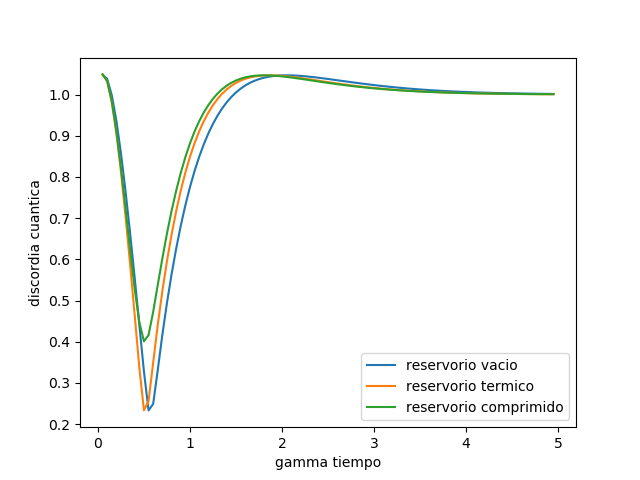
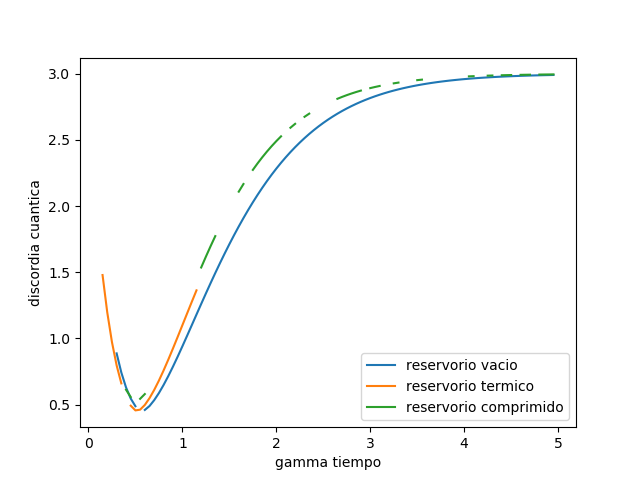
ÂÂ¿Graficos correctos?

diff --git a/master.py b/master.py
@@ -64,7 +64,7 @@ for i in range (0,100):
     c=np.amax(consar)
     carray=np.array([0,0.5*(c1+c2-1-c3),0.5*(c1-c2-1+c3)])
     conc_I1_S0S[i]=np.amax(carray)
-    disc_I1_S0S[i]=mat.eigenvalues[1]*np.log2(4*mat.eigenvalues[1])-0.5*(-(1+c)*np.log2(np.absolute(1+c))-(1-c)*np.log2(np.absolute(1-c)))
+    disc_I1_S0S[i]=mat.eigenenergies()[0]*np.log2(4*mat.eigenenergies()[0])+mat.eigenenergies()[1]*np.log2(4*mat.eigenenergies()[1])+mat.eigenenergies()[2]*np.log2(4*mat.eigenenergies()[2])+mat.eigenenergies()[3]*np.log2(4*mat.eigenenergies()[3])-0.5*(-(1+c)*np.log2(np.absolute(1+c))-(1-c)*np.log2(np.absolute(1-c)))
 
     
 for i in range (0,100):
@@ -77,7 +77,7 @@ for i in range (0,100):
     c=np.amax(consar)
     carray=np.array([0,0.5*(c1+c2-1-c3),0.5*(c1-c2-1+c3)])
     conc_I2_S0S[i]=np.amax(carray)
-    disc_I2_S0S[i]=-0.5*((1-c1-c2-c3)*np.log2(np.absolute(1-c1-c2-c3))+(1-c1+c2+c3)*np.log2(np.absolute(1-c1+c2+c3))-(1+c)*np.log2(np.absolute(1+c))-(1-c)*np.log2(np.absolute(1-c)))
+    disc_I2_S0S[i]=mat.eigenenergies()[0]*np.log2(4*mat.eigenenergies()[0])+mat.eigenenergies()[1]*np.log2(4*mat.eigenenergies()[1])+mat.eigenenergies()[2]*np.log2(4*mat.eigenenergies()[2])+mat.eigenenergies()[3]*np.log2(4*mat.eigenenergies()[3])-0.5*(-(1+c)*np.log2(np.absolute(1+c))-(1-c)*np.log2(np.absolute(1-c)))
 
 
 for i in range (0,100):
@@ -90,7 +90,7 @@ for i in range (0,100):
     c=np.amax(consar)
     carray=np.array([0,0.5*(c1+c2-1-c3),0.5*(c1-c2-1+c3)])
     conc_I3_S0S[i]=np.amax(carray)
-    disc_I3_S0S[i]=-0.5*((1-c1-c2-c3)*np.log2(np.absolute(1-c1-c2-c3))+(1-c1+c2+c3)*np.log2(np.absolute(1-c1+c2+c3))-(1+c)*np.log2(np.absolute(1+c))-(1-c)*np.log2(np.absolute(1-c)))
+    disc_I3_S0S[i]=mat.eigenenergies()[0]*np.log2(4*mat.eigenenergies()[0])+mat.eigenenergies()[1]*np.log2(4*mat.eigenenergies()[1])+mat.eigenenergies()[2]*np.log2(4*mat.eigenenergies()[2])+mat.eigenenergies()[3]*np.log2(4*mat.eigenenergies()[3])-0.5*(-(1+c)*np.log2(np.absolute(1+c))-(1-c)*np.log2(np.absolute(1-c)))
 
 
 for i in range (0,100):
@@ -103,7 +103,7 @@ for i in range (0,100):
     c=np.amax(consar)
     carray=np.array([0,0.5*(c1+c2-1-c3),0.5*(c1-c2-1+c3)])
     conc_I4_S0S[i]=np.amax(carray)
-    disc_I4_S0S[i]=-0.5*((1-c1-c2-c3)*np.log2(np.absolute(1-c1-c2-c3))+(1-c1+c2+c3)*np.log2(np.absolute(1-c1+c2+c3))-(1+c)*np.log2(np.absolute(1+c))-(1-c)*np.log2(np.absolute(1-c)))
+    disc_I4_S0S[i]=mat.eigenenergies()[0]*np.log2(4*mat.eigenenergies()[0])+mat.eigenenergies()[1]*np.log2(4*mat.eigenenergies()[1])+mat.eigenenergies()[2]*np.log2(4*mat.eigenenergies()[2])+mat.eigenenergies()[3]*np.log2(4*mat.eigenenergies()[3])-0.5*(-(1+c)*np.log2(np.absolute(1+c))-(1-c)*np.log2(np.absolute(1-c)))
 
 
 for i in range (0,100):
@@ -116,7 +116,7 @@ for i in range (0,100):
     c=np.amax(consar)
     carray=np.array([0,0.5*(c1+c2-1-c3),0.5*(c1-c2-1+c3)])
     conc_I5_S0S[i]=np.amax(carray)
-    disc_I5_S0S[i]=-0.5*((1-c1-c2-c3)*np.log2(np.absolute(1-c1-c2-c3))+(1-c1+c2+c3)*np.log2(np.absolute(1-c1+c2+c3))-(1+c)*np.log2(np.absolute(1+c))-(1-c)*np.log2(np.absolute(1-c)))
+    disc_I5_S0S[i]=mat.eigenenergies()[0]*np.log2(4*mat.eigenenergies()[0])+mat.eigenenergies()[1]*np.log2(4*mat.eigenenergies()[1])+mat.eigenenergies()[2]*np.log2(4*mat.eigenenergies()[2])+mat.eigenenergies()[3]*np.log2(4*mat.eigenenergies()[3])-0.5*(-(1+c)*np.log2(np.absolute(1+c))-(1-c)*np.log2(np.absolute(1-c)))
 
 
 #Reservorio térmico sin interacción
@@ -140,7 +140,7 @@ for i in range (0,100):
     c=np.amax(consar)
     carray=np.array([0,0.5*(c1+c2-1-c3),0.5*(c1-c2-1+c3)])
     conc_I1_S1S[i]=np.amax(carray)
-    disc_I1_S1S[i]=-0.5*((1-c1-c2-c3)*np.log2(np.absolute(1-c1-c2-c3))+(1-c1+c2+c3)*np.log2(np.absolute(1-c1+c2+c3))-(1+c)*np.log2(np.absolute(1+c))-(1-c)*np.log2(np.absolute(1-c)))
+    disc_I1_S1S[i]=mat.eigenenergies()[0]*np.log2(4*mat.eigenenergies()[0])+mat.eigenenergies()[1]*np.log2(4*mat.eigenenergies()[1])+mat.eigenenergies()[2]*np.log2(4*mat.eigenenergies()[2])+mat.eigenenergies()[3]*np.log2(4*mat.eigenenergies()[3])-0.5*(-(1+c)*np.log2(np.absolute(1+c))-(1-c)*np.log2(np.absolute(1-c)))
 
     
 for i in range (0,100):
@@ -153,7 +153,7 @@ for i in range (0,100):
     c=np.amax(consar)
     carray=np.array([0,0.5*(c1+c2-1-c3),0.5*(c1-c2-1+c3)])
     conc_I2_S1S[i]=np.amax(carray)
-    disc_I2_S1S[i]=-0.5*((1-c1-c2-c3)*np.log2(np.absolute(1-c1-c2-c3))+(1-c1+c2+c3)*np.log2(np.absolute(1-c1+c2+c3))-(1+c)*np.log2(np.absolute(1+c))-(1-c)*np.log2(np.absolute(1-c)))
+    disc_I2_S1S[i]=mat.eigenenergies()[0]*np.log2(4*mat.eigenenergies()[0])+mat.eigenenergies()[1]*np.log2(4*mat.eigenenergies()[1])+mat.eigenenergies()[2]*np.log2(4*mat.eigenenergies()[2])+mat.eigenenergies()[3]*np.log2(4*mat.eigenenergies()[3])-0.5*(-(1+c)*np.log2(np.absolute(1+c))-(1-c)*np.log2(np.absolute(1-c)))
 
 
 for i in range (0,100):
@@ -166,7 +166,7 @@ for i in range (0,100):
     c=np.amax(consar)
     carray=np.array([0,0.5*(c1+c2-1-c3),0.5*(c1-c2-1+c3)])
     conc_I3_S1S[i]=np.amax(carray)
-    disc_I3_S1S[i]=-0.5*((1-c1-c2-c3)*np.log2(np.absolute(1-c1-c2-c3))+(1-c1+c2+c3)*np.log2(np.absolute(1-c1+c2+c3))-(1+c)*np.log2(np.absolute(1+c))-(1-c)*np.log2(np.absolute(1-c)))
+    disc_I3_S1S[i]=mat.eigenenergies()[0]*np.log2(4*mat.eigenenergies()[0])+mat.eigenenergies()[1]*np.log2(4*mat.eigenenergies()[1])+mat.eigenenergies()[2]*np.log2(4*mat.eigenenergies()[2])+mat.eigenenergies()[3]*np.log2(4*mat.eigenenergies()[3])-0.5*(-(1+c)*np.log2(np.absolute(1+c))-(1-c)*np.log2(np.absolute(1-c)))
 
 
 for i in range (0,100):
@@ -179,7 +179,7 @@ for i in range (0,100):
     c=np.amax(consar)
     carray=np.array([0,0.5*(c1+c2-1-c3),0.5*(c1-c2-1+c3)])
     conc_I4_S1S[i]=np.amax(carray)
-    disc_I4_S1S[i]=-0.5*((1-c1-c2-c3)*np.log2(np.absolute(1-c1-c2-c3))+(1-c1+c2+c3)*np.log2(np.absolute(1-c1+c2+c3))-(1+c)*np.log2(np.absolute(1+c))-(1-c)*np.log2(np.absolute(1-c)))
+    disc_I4_S1S[i]=mat.eigenenergies()[0]*np.log2(4*mat.eigenenergies()[0])+mat.eigenenergies()[1]*np.log2(4*mat.eigenenergies()[1])+mat.eigenenergies()[2]*np.log2(4*mat.eigenenergies()[2])+mat.eigenenergies()[3]*np.log2(4*mat.eigenenergies()[3])-0.5*(-(1+c)*np.log2(np.absolute(1+c))-(1-c)*np.log2(np.absolute(1-c)))
 
 
 for i in range (0,100):
@@ -192,7 +192,7 @@ for i in range (0,100):
     c=np.amax(consar)
     carray=np.array([0,0.5*(c1+c2-1-c3),0.5*(c1-c2-1+c3)])
     conc_I5_S1S[i]=np.amax(carray)
-    disc_I5_S1S[i]=-0.5*((1-c1-c2-c3)*np.log2(np.absolute(1-c1-c2-c3))+(1-c1+c2+c3)*np.log2(np.absolute(1-c1+c2+c3))-(1+c)*np.log2(np.absolute(1+c))-(1-c)*np.log2(np.absolute(1-c)))
+    disc_I5_S1S[i]=mat.eigenenergies()[0]*np.log2(4*mat.eigenenergies()[0])+mat.eigenenergies()[1]*np.log2(4*mat.eigenenergies()[1])+mat.eigenenergies()[2]*np.log2(4*mat.eigenenergies()[2])+mat.eigenenergies()[3]*np.log2(4*mat.eigenenergies()[3])-0.5*(-(1+c)*np.log2(np.absolute(1+c))-(1-c)*np.log2(np.absolute(1-c)))
 
 
 #Reservorio comprimido sin interacción
@@ -216,7 +216,7 @@ for i in range (0,100):
     c=np.amax(consar)
     carray=np.array([0,0.5*(c1+c2-1-c3),0.5*(c1-c2-1+c3)])
     conc_I1_S2S[i]=np.amax(carray)
-    disc_I1_S2S[i]=-0.5*((1-c1-c2-c3)*np.log2(np.absolute(1-c1-c2-c3))+(1-c1+c2+c3)*np.log2(np.absolute(1-c1+c2+c3))-(1+c)*np.log2(np.absolute(1+c))-(1-c)*np.log2(np.absolute(1-c)))
+    disc_I1_S2S[i]=mat.eigenenergies()[0]*np.log2(4*mat.eigenenergies()[0])+mat.eigenenergies()[1]*np.log2(4*mat.eigenenergies()[1])+mat.eigenenergies()[2]*np.log2(4*mat.eigenenergies()[2])+mat.eigenenergies()[3]*np.log2(4*mat.eigenenergies()[3])-0.5*(-(1+c)*np.log2(np.absolute(1+c))-(1-c)*np.log2(np.absolute(1-c)))
 
 for i in range (0,100):
     mat=Qobj(em_I2_S2S.states[i])
@@ -228,7 +228,7 @@ for i in range (0,100):
     c=np.amax(consar)
     carray=np.array([0,0.5*(c1+c2-1-c3),0.5*(c1-c2-1+c3)])
     conc_I2_S2S[i]=np.amax(carray)
-    disc_I2_S2S[i]=-0.5*((1-c1-c2-c3)*np.log2(np.absolute(1-c1-c2-c3))+(1-c1+c2+c3)*np.log2(np.absolute(1-c1+c2+c3))-(1+c)*np.log2(np.absolute(1+c))-(1-c)*np.log2(np.absolute(1-c)))
+    disc_I2_S2S[i]=mat.eigenenergies()[0]*np.log2(4*mat.eigenenergies()[0])+mat.eigenenergies()[1]*np.log2(4*mat.eigenenergies()[1])+mat.eigenenergies()[2]*np.log2(4*mat.eigenenergies()[2])+mat.eigenenergies()[3]*np.log2(4*mat.eigenenergies()[3])-0.5*(-(1+c)*np.log2(np.absolute(1+c))-(1-c)*np.log2(np.absolute(1-c)))
 
 for i in range (0,100):
     mat=Qobj(em_I3_S2S.states[i])
@@ -240,7 +240,7 @@ for i in range (0,100):
     c=np.amax(consar)
     carray=np.array([0,0.5*(c1+c2-1-c3),0.5*(c1-c2-1+c3)])
     conc_I3_S2S[i]=np.amax(carray)
-    disc_I3_S2S[i]=-0.5*((1-c1-c2-c3)*np.log2(np.absolute(1-c1-c2-c3))+(1-c1+c2+c3)*np.log2(np.absolute(1-c1+c2+c3))-(1+c)*np.log2(np.absolute(1+c))-(1-c)*np.log2(np.absolute(1-c)))
+    disc_I3_S2S[i]=mat.eigenenergies()[0]*np.log2(4*mat.eigenenergies()[0])+mat.eigenenergies()[1]*np.log2(4*mat.eigenenergies()[1])+mat.eigenenergies()[2]*np.log2(4*mat.eigenenergies()[2])+mat.eigenenergies()[3]*np.log2(4*mat.eigenenergies()[3])-0.5*(-(1+c)*np.log2(np.absolute(1+c))-(1-c)*np.log2(np.absolute(1-c)))
 
 
 for i in range (0,100):
@@ -253,7 +253,7 @@ for i in range (0,100):
     c=np.amax(consar)
     carray=np.array([0,0.5*(c1+c2-1-c3),0.5*(c1-c2-1+c3)])
     conc_I4_S2S[i]=np.amax(carray)
-    disc_I4_S2S[i]=-0.5*((1-c1-c2-c3)*np.log2(np.absolute(1-c1-c2-c3))+(1-c1+c2+c3)*np.log2(np.absolute(1-c1+c2+c3))-(1+c)*np.log2(np.absolute(1+c))-(1-c)*np.log2(np.absolute(1-c)))
+    disc_I4_S2S[i]=mat.eigenenergies()[0]*np.log2(4*mat.eigenenergies()[0])+mat.eigenenergies()[1]*np.log2(4*mat.eigenenergies()[1])+mat.eigenenergies()[2]*np.log2(4*mat.eigenenergies()[2])+mat.eigenenergies()[3]*np.log2(4*mat.eigenenergies()[3])-0.5*(-(1+c)*np.log2(np.absolute(1+c))-(1-c)*np.log2(np.absolute(1-c)))
 
 
 for i in range (0,100):
@@ -266,7 +266,7 @@ for i in range (0,100):
     c=np.amax(consar)
     carray=np.array([0,0.5*(c1+c2-1-c3),0.5*(c1-c2-1+c3)])
     conc_I5_S2S[i]=np.amax(carray)
-    disc_I5_S2S[i]=-0.5*((1-c1-c2-c3)*np.log2(np.absolute(1-c1-c2-c3))+(1-c1+c2+c3)*np.log2(np.absolute(1-c1+c2+c3))-(1+c)*np.log2(np.absolute(1+c))-(1-c)*np.log2(np.absolute(1-c)))
+    disc_I5_S2S[i]=mat.eigenenergies()[0]*np.log2(4*mat.eigenenergies()[0])+mat.eigenenergies()[1]*np.log2(4*mat.eigenenergies()[1])+mat.eigenenergies()[2]*np.log2(4*mat.eigenenergies()[2])+mat.eigenenergies()[3]*np.log2(4*mat.eigenenergies()[3])-0.5*(-(1+c)*np.log2(np.absolute(1+c))-(1-c)*np.log2(np.absolute(1-c)))
 
 
 #Reservorio vacío con interacción
@@ -290,7 +290,7 @@ for i in range (0,100):
     c=np.amax(consar)
     carray=np.array([0,0.5*(c1+c2-1-c3),0.5*(c1-c2-1+c3)])
     conc_I1_S0C[i]=np.amax(carray)
-    disc_I1_S0C[i]=-0.5*((1-c1-c2-c3)*np.log2(np.absolute(1-c1-c2-c3))+(1-c1+c2+c3)*np.log2(np.absolute(1-c1+c2+c3))-(1+c)*np.log2(np.absolute(1+c))-(1-c)*np.log2(np.absolute(1-c)))
+    disc_I1_S0C[i]=mat.eigenenergies()[0]*np.log2(4*mat.eigenenergies()[0])+mat.eigenenergies()[1]*np.log2(4*mat.eigenenergies()[1])+mat.eigenenergies()[2]*np.log2(4*mat.eigenenergies()[2])+mat.eigenenergies()[3]*np.log2(4*mat.eigenenergies()[3])-0.5*(-(1+c)*np.log2(np.absolute(1+c))-(1-c)*np.log2(np.absolute(1-c)))
 
     
 for i in range (0,100):
@@ -303,7 +303,7 @@ for i in range (0,100):
     c=np.amax(consar)
     carray=np.array([0,0.5*(c1+c2-1-c3),0.5*(c1-c2-1+c3)])
     conc_I2_S0C[i]=np.amax(carray)
-    disc_I2_S0C[i]=-0.5*((1-c1-c2-c3)*np.log2(np.absolute(1-c1-c2-c3))+(1-c1+c2+c3)*np.log2(np.absolute(1-c1+c2+c3))-(1+c)*np.log2(np.absolute(1+c))-(1-c)*np.log2(np.absolute(1-c)))
+    disc_I2_S0C[i]=mat.eigenenergies()[0]*np.log2(4*mat.eigenenergies()[0])+mat.eigenenergies()[1]*np.log2(4*mat.eigenenergies()[1])+mat.eigenenergies()[2]*np.log2(4*mat.eigenenergies()[2])+mat.eigenenergies()[3]*np.log2(4*mat.eigenenergies()[3])-0.5*(-(1+c)*np.log2(np.absolute(1+c))-(1-c)*np.log2(np.absolute(1-c)))
 
 
 for i in range (0,100):
@@ -315,8 +315,8 @@ for i in range (0,100):
     consar=np.array([c1,c2,c3])
     c=np.amax(consar)
     carray=np.array([0,0.5*(c1+c2-1-c3),0.5*(c1-c2-1+c3)])
-    conc_I3_S0S[i]=np.amax(carray)
-    disc_I3_S0C[i]=-0.5*((1-c1-c2-c3)*np.log2(np.absolute(1-c1-c2-c3))+(1-c1+c2+c3)*np.log2(np.absolute(1-c1+c2+c3))-(1+c)*np.log2(np.absolute(1+c))-(1-c)*np.log2(np.absolute(1-c)))
+    conc_I3_S0C[i]=np.amax(carray)
+    disc_I3_S0C[i]=mat.eigenenergies()[0]*np.log2(4*mat.eigenenergies()[0])+mat.eigenenergies()[1]*np.log2(4*mat.eigenenergies()[1])+mat.eigenenergies()[2]*np.log2(4*mat.eigenenergies()[2])+mat.eigenenergies()[3]*np.log2(4*mat.eigenenergies()[3])-0.5*(-(1+c)*np.log2(np.absolute(1+c))-(1-c)*np.log2(np.absolute(1-c)))
 
 
 for i in range (0,100):
@@ -328,8 +328,8 @@ for i in range (0,100):
     consar=np.array([c1,c2,c3])
     c=np.amax(consar)
     carray=np.array([0,0.5*(c1+c2-1-c3),0.5*(c1-c2-1+c3)])
-    conc_I4_S0S[i]=np.amax(carray)
-    disc_I4_S0C[i]=-0.5*((1-c1-c2-c3)*np.log2(np.absolute(1-c1-c2-c3))+(1-c1+c2+c3)*np.log2(np.absolute(1-c1+c2+c3))-(1+c)*np.log2(np.absolute(1+c))-(1-c)*np.log2(np.absolute(1-c)))
+    conc_I4_S0C[i]=np.amax(carray)
+    disc_I4_S0C[i]=mat.eigenenergies()[0]*np.log2(4*mat.eigenenergies()[0])+mat.eigenenergies()[1]*np.log2(4*mat.eigenenergies()[1])+mat.eigenenergies()[2]*np.log2(4*mat.eigenenergies()[2])+mat.eigenenergies()[3]*np.log2(4*mat.eigenenergies()[3])-0.5*(-(1+c)*np.log2(np.absolute(1+c))-(1-c)*np.log2(np.absolute(1-c)))
 
 
 for i in range (0,100):
@@ -341,8 +341,8 @@ for i in range (0,100):
     consar=np.array([c1,c2,c3])
     c=np.amax(consar)
     carray=np.array([0,0.5*(c1+c2-1-c3),0.5*(c1-c2-1+c3)])
-    conc_I5_S0S[i]=np.amax(carray)
-    disc_I5_S0C[i]=-0.5*((1-c1-c2-c3)*np.log2(np.absolute(1-c1-c2-c3))+(1-c1+c2+c3)*np.log2(np.absolute(1-c1+c2+c3))-(1+c)*np.log2(np.absolute(1+c))-(1-c)*np.log2(np.absolute(1-c)))
+    conc_I5_S0C[i]=np.amax(carray)
+    disc_I5_S0C[i]=mat.eigenenergies()[0]*np.log2(4*mat.eigenenergies()[0])+mat.eigenenergies()[1]*np.log2(4*mat.eigenenergies()[1])+mat.eigenenergies()[2]*np.log2(4*mat.eigenenergies()[2])+mat.eigenenergies()[3]*np.log2(4*mat.eigenenergies()[3])-0.5*(-(1+c)*np.log2(np.absolute(1+c))-(1-c)*np.log2(np.absolute(1-c)))
 
 
 #Reservorio térmico con interacción
@@ -366,7 +366,7 @@ for i in range (0,100):
     c=np.amax(consar)
     carray=np.array([0,0.5*(c1+c2-1-c3),0.5*(c1-c2-1+c3)])
     conc_I1_S1C[i]=np.amax(carray)
-    disc_I1_S1C[i]=-0.5*((1-c1-c2-c3)*np.log2(np.absolute(1-c1-c2-c3))+(1-c1+c2+c3)*np.log2(np.absolute(1-c1+c2+c3))-(1+c)*np.log2(np.absolute(1+c))-(1-c)*np.log2(np.absolute(1-c)))
+    disc_I1_S1C[i]=mat.eigenenergies()[0]*np.log2(4*mat.eigenenergies()[0])+mat.eigenenergies()[1]*np.log2(4*mat.eigenenergies()[1])+mat.eigenenergies()[2]*np.log2(4*mat.eigenenergies()[2])+mat.eigenenergies()[3]*np.log2(4*mat.eigenenergies()[3])-0.5*(-(1+c)*np.log2(np.absolute(1+c))-(1-c)*np.log2(np.absolute(1-c)))
 
     
 for i in range (0,100):
@@ -379,7 +379,7 @@ for i in range (0,100):
     c=np.amax(consar)
     carray=np.array([0,0.5*(c1+c2-1-c3),0.5*(c1-c2-1+c3)])
     conc_I2_S1C[i]=np.amax(carray)
-    disc_I2_S1C[i]=-0.5*((1-c1-c2-c3)*np.log2(np.absolute(1-c1-c2-c3))+(1-c1+c2+c3)*np.log2(np.absolute(1-c1+c2+c3))-(1+c)*np.log2(np.absolute(1+c))-(1-c)*np.log2(np.absolute(1-c)))
+    disc_I2_S1C[i]=mat.eigenenergies()[0]*np.log2(4*mat.eigenenergies()[0])+mat.eigenenergies()[1]*np.log2(4*mat.eigenenergies()[1])+mat.eigenenergies()[2]*np.log2(4*mat.eigenenergies()[2])+mat.eigenenergies()[3]*np.log2(4*mat.eigenenergies()[3])-0.5*(-(1+c)*np.log2(np.absolute(1+c))-(1-c)*np.log2(np.absolute(1-c)))
 
 
 for i in range (0,100):
@@ -392,7 +392,7 @@ for i in range (0,100):
     c=np.amax(consar)
     carray=np.array([0,0.5*(c1+c2-1-c3),0.5*(c1-c2-1+c3)])
     conc_I3_S1C[i]=np.amax(carray)
-    disc_I3_S1C[i]=-0.5*((1-c1-c2-c3)*np.log2(np.absolute(1-c1-c2-c3))+(1-c1+c2+c3)*np.log2(np.absolute(1-c1+c2+c3))-(1+c)*np.log2(np.absolute(1+c))-(1-c)*np.log2(np.absolute(1-c)))
+    disc_I3_S1C[i]=mat.eigenenergies()[0]*np.log2(4*mat.eigenenergies()[0])+mat.eigenenergies()[1]*np.log2(4*mat.eigenenergies()[1])+mat.eigenenergies()[2]*np.log2(4*mat.eigenenergies()[2])+mat.eigenenergies()[3]*np.log2(4*mat.eigenenergies()[3])-0.5*(-(1+c)*np.log2(np.absolute(1+c))-(1-c)*np.log2(np.absolute(1-c)))
 
 
 for i in range (0,100):
@@ -405,7 +405,7 @@ for i in range (0,100):
     c=np.amax(consar)
     carray=np.array([0,0.5*(c1+c2-1-c3),0.5*(c1-c2-1+c3)])
     conc_I4_S1C[i]=np.amax(carray)
-    disc_I4_S1C[i]=-0.5*((1-c1-c2-c3)*np.log2(np.absolute(1-c1-c2-c3))+(1-c1+c2+c3)*np.log2(np.absolute(1-c1+c2+c3))-(1+c)*np.log2(np.absolute(1+c))-(1-c)*np.log2(np.absolute(1-c)))
+    disc_I4_S1C[i]=mat.eigenenergies()[0]*np.log2(4*mat.eigenenergies()[0])+mat.eigenenergies()[1]*np.log2(4*mat.eigenenergies()[1])+mat.eigenenergies()[2]*np.log2(4*mat.eigenenergies()[2])+mat.eigenenergies()[3]*np.log2(4*mat.eigenenergies()[3])-0.5*(-(1+c)*np.log2(np.absolute(1+c))-(1-c)*np.log2(np.absolute(1-c)))
 
 
 for i in range (0,100):
@@ -418,7 +418,7 @@ for i in range (0,100):
     c=np.amax(consar)
     carray=np.array([0,0.5*(c1+c2-1-c3),0.5*(c1-c2-1+c3)])
     conc_I5_S1C[i]=np.amax(carray)
-    disc_I5_S1C[i]=-0.5*((1-c1-c2-c3)*np.log2(np.absolute(1-c1-c2-c3))+(1-c1+c2+c3)*np.log2(np.absolute(1-c1+c2+c3))-(1+c)*np.log2(np.absolute(1+c))-(1-c)*np.log2(np.absolute(1-c)))
+    disc_I5_S1C[i]=mat.eigenenergies()[0]*np.log2(4*mat.eigenenergies()[0])+mat.eigenenergies()[1]*np.log2(4*mat.eigenenergies()[1])+mat.eigenenergies()[2]*np.log2(4*mat.eigenenergies()[2])+mat.eigenenergies()[3]*np.log2(4*mat.eigenenergies()[3])-0.5*(-(1+c)*np.log2(np.absolute(1+c))-(1-c)*np.log2(np.absolute(1-c)))
 
 
 #Reservorio comprimido con interacción
@@ -442,7 +442,7 @@ for i in range (0,100):
     c=np.amax(consar)
     carray=np.array([0,0.5*(c1+c2-1-c3),0.5*(c1-c2-1+c3)])
     conc_I1_S2C[i]=np.amax(carray)
-    disc_I1_S2C[i]=-0.5*((1-c1-c2-c3)*np.log2(np.absolute(1-c1-c2-c3))+(1-c1+c2+c3)*np.log2(np.absolute(1-c1+c2+c3))-(1+c)*np.log2(np.absolute(1+c))-(1-c)*np.log2(np.absolute(1-c)))
+    disc_I1_S2C[i]=mat.eigenenergies()[0]*np.log2(4*mat.eigenenergies()[0])+mat.eigenenergies()[1]*np.log2(4*mat.eigenenergies()[1])+mat.eigenenergies()[2]*np.log2(4*mat.eigenenergies()[2])+mat.eigenenergies()[3]*np.log2(4*mat.eigenenergies()[3])-0.5*(-(1+c)*np.log2(np.absolute(1+c))-(1-c)*np.log2(np.absolute(1-c)))
 
 for i in range (0,100):
     mat=Qobj(em_I2_S2C.states[i])
@@ -454,7 +454,7 @@ for i in range (0,100):
     c=np.amax(consar)
     carray=np.array([0,0.5*(c1+c2-1-c3),0.5*(c1-c2-1+c3)])
     conc_I2_S2C[i]=np.amax(carray)
-    disc_I2_S2C[i]=-0.5*((1-c1-c2-c3)*np.log2(np.absolute(1-c1-c2-c3))+(1-c1+c2+c3)*np.log2(np.absolute(1-c1+c2+c3))-(1+c)*np.log2(np.absolute(1+c))-(1-c)*np.log2(np.absolute(1-c)))
+    disc_I2_S2C[i]=mat.eigenenergies()[0]*np.log2(4*mat.eigenenergies()[0])+mat.eigenenergies()[1]*np.log2(4*mat.eigenenergies()[1])+mat.eigenenergies()[2]*np.log2(4*mat.eigenenergies()[2])+mat.eigenenergies()[3]*np.log2(4*mat.eigenenergies()[3])-0.5*(-(1+c)*np.log2(np.absolute(1+c))-(1-c)*np.log2(np.absolute(1-c)))
 
 for i in range (0,100):
     mat=Qobj(em_I3_S2C.states[i])
@@ -465,8 +465,8 @@ for i in range (0,100):
     consar=np.array([c1,c2,c3])
     c=np.amax(consar)
     carray=np.array([0,0.5*(c1+c2-1-c3),0.5*(c1-c2-1+c3)])
-    conc_I3_S2S[i]=np.amax(carray)
-    disc_I3_S2C[i]=-0.5*((1-c1-c2-c3)*np.log2(np.absolute(1-c1-c2-c3))+(1-c1+c2+c3)*np.log2(np.absolute(1-c1+c2+c3))-(1+c)*np.log2(np.absolute(1+c))-(1-c)*np.log2(np.absolute(1-c)))
+    conc_I3_S2C[i]=np.amax(carray)
+    disc_I3_S2C[i]=mat.eigenenergies()[0]*np.log2(4*mat.eigenenergies()[0])+mat.eigenenergies()[1]*np.log2(4*mat.eigenenergies()[1])+mat.eigenenergies()[2]*np.log2(4*mat.eigenenergies()[2])+mat.eigenenergies()[3]*np.log2(4*mat.eigenenergies()[3])-0.5*(-(1+c)*np.log2(np.absolute(1+c))-(1-c)*np.log2(np.absolute(1-c)))
 
 
 for i in range (0,100):
@@ -478,8 +478,8 @@ for i in range (0,100):
     consar=np.array([c1,c2,c3])
     c=np.amax(consar)
     carray=np.array([0,0.5*(c1+c2-1-c3),0.5*(c1-c2-1+c3)])
-    conc_I4_S2S[i]=np.amax(carray)
-    disc_I4_S2C[i]=-0.5*((1-c1-c2-c3)*np.log2(np.absolute(1-c1-c2-c3))+(1-c1+c2+c3)*np.log2(np.absolute(1-c1+c2+c3))-(1+c)*np.log2(np.absolute(1+c))-(1-c)*np.log2(np.absolute(1-c)))
+    conc_I4_S2C[i]=np.amax(carray)
+    disc_I4_S2C[i]=mat.eigenenergies()[0]*np.log2(4*mat.eigenenergies()[0])+mat.eigenenergies()[1]*np.log2(4*mat.eigenenergies()[1])+mat.eigenenergies()[2]*np.log2(4*mat.eigenenergies()[2])+mat.eigenenergies()[3]*np.log2(4*mat.eigenenergies()[3])-0.5*(-(1+c)*np.log2(np.absolute(1+c))-(1-c)*np.log2(np.absolute(1-c)))
 
 
 for i in range (0,100):
@@ -491,8 +491,8 @@ for i in range (0,100):
     consar=np.array([c1,c2,c3])
     c=np.amax(consar)
     carray=np.array([0,0.5*(c1+c2-1-c3),0.5*(c1-c2-1+c3)])
-    conc_I5_S2S[i]=np.amax(carray)
-    disc_I5_S2C[i]=-0.5*((1-c1-c2-c3)*np.log2(np.absolute(1-c1-c2-c3))+(1-c1+c2+c3)*np.log2(np.absolute(1-c1+c2+c3))-(1+c)*np.log2(np.absolute(1+c))-(1-c)*np.log2(np.absolute(1-c)))
+    conc_I5_S2C[i]=np.amax(carray)
+    disc_I5_S2C[i]=mat.eigenenergies()[0]*np.log2(4*mat.eigenenergies()[0])+mat.eigenenergies()[1]*np.log2(4*mat.eigenenergies()[1])+mat.eigenenergies()[2]*np.log2(4*mat.eigenenergies()[2])+mat.eigenenergies()[3]*np.log2(4*mat.eigenenergies()[3])-0.5*(-(1+c)*np.log2(np.absolute(1+c))-(1-c)*np.log2(np.absolute(1-c)))
 
 
 #Graficar
